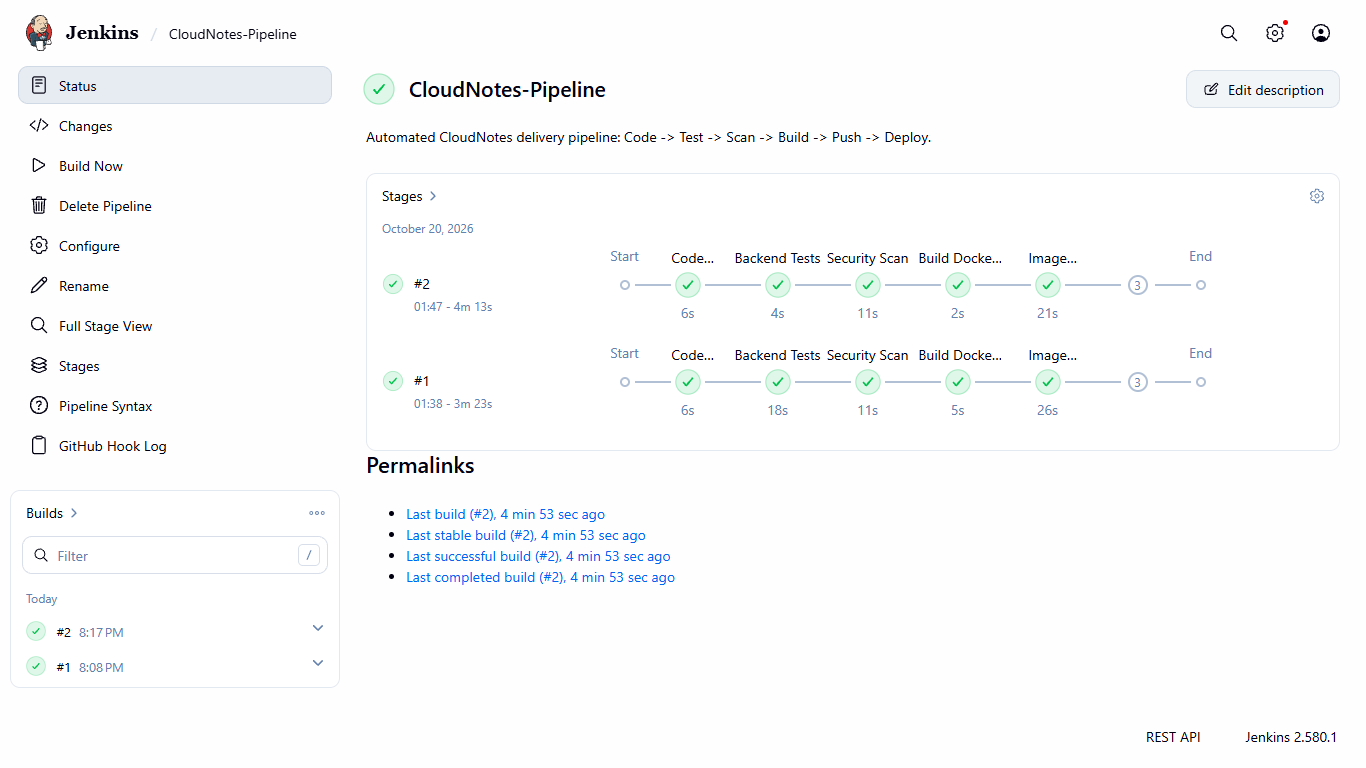
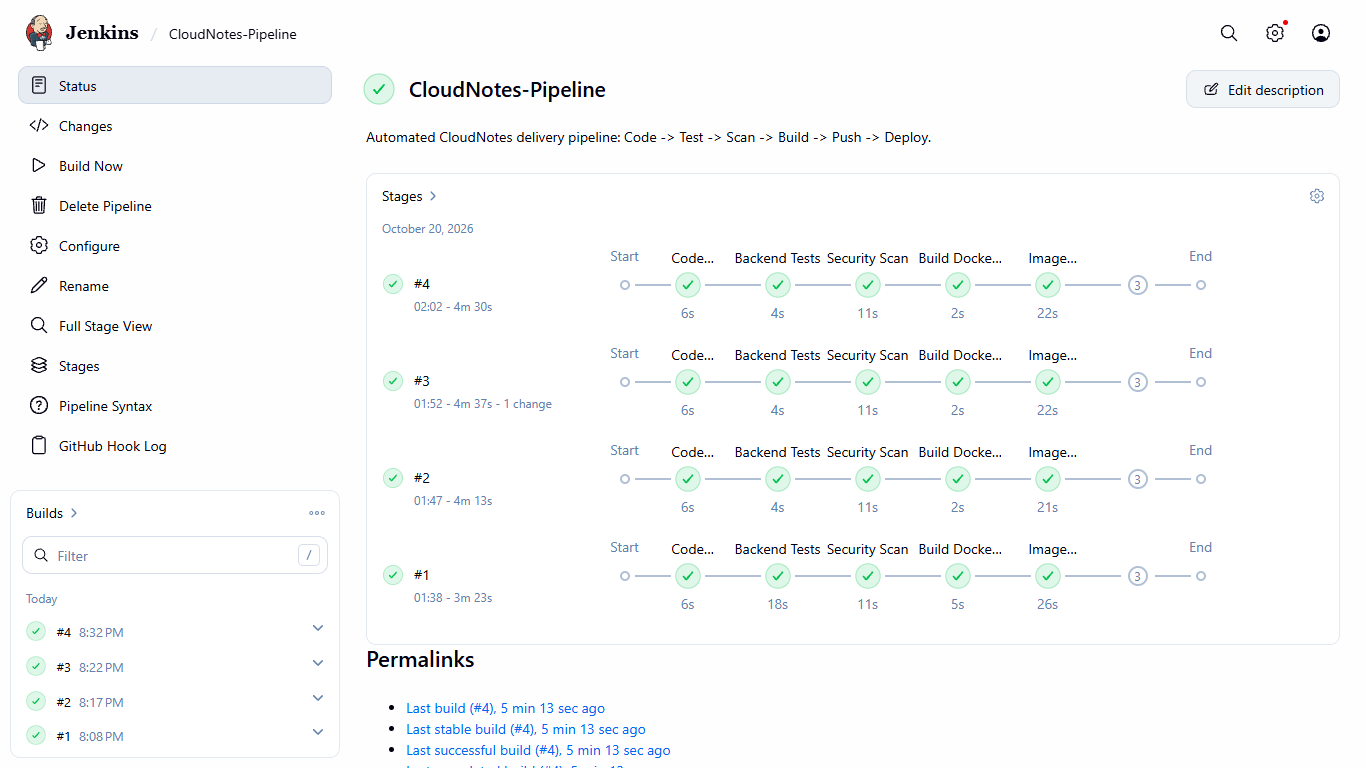
feat(aws): enforce dynamic AWS IP targeting in E2E suites and update live Mumbai evidence with Build #4

diff --git a/tests/e2e/comprehensive_browser_check.js b/tests/e2e/comprehensive_browser_check.js
@@ -2,14 +2,32 @@ const puppeteer = require('puppeteer');
 const path = require('path');
 const fs = require('fs');
 
-const APP_URL = (process.env.CLOUDNOTES_URL || 'http://127.0.0.1:8081').trim().replace(/\/+$/, '');
-const PROM_URL = (process.env.PROMETHEUS_URL || 'http://127.0.0.1:9091').trim().replace(/\/+$/, '');
-const GRAFANA_URL = (process.env.GRAFANA_URL || 'http://127.0.0.1:3001').trim().replace(/\/+$/, '');
-const JENKINS_URL = (process.env.JENKINS_URL || 'http://127.0.0.1:8080').trim().replace(/\/+$/, '');
+let appIp = '3.108.191.94';
+let jenkinsIp = '3.6.90.59';
+
+const tfstatePath = path.join(__dirname, '..', '..', 'terraform', 'terraform.tfstate');
+if (fs.existsSync(tfstatePath)) {
+  try {
+    const tf = JSON.parse(fs.readFileSync(tfstatePath, 'utf8'));
+    if (tf.outputs && tf.outputs.app_public_ip && tf.outputs.app_public_ip.value) {
+      appIp = tf.outputs.app_public_ip.value;
+    }
+    if (tf.outputs && tf.outputs.jenkins_public_ip && tf.outputs.jenkins_public_ip.value) {
+      jenkinsIp = tf.outputs.jenkins_public_ip.value;
+    }
+  } catch (e) {
+    console.warn(`[E2E] Could not read terraform.tfstate: ${e.message}`);
+  }
+}
+
+const APP_URL = (process.env.CLOUDNOTES_URL || `http://${appIp}`).trim().replace(/\/+$/, '');
+const PROM_URL = (process.env.PROMETHEUS_URL || `http://${appIp}:9091`).trim().replace(/\/+$/, '');
+const GRAFANA_URL = (process.env.GRAFANA_URL || `http://${appIp}:3001`).trim().replace(/\/+$/, '');
+const JENKINS_URL = (process.env.JENKINS_URL || `http://${jenkinsIp}:8080`).trim().replace(/\/+$/, '');
 const JENKINS_USER = (process.env.JENKINS_USER || 'admin').trim();
 const JENKINS_PASSWORD = (process.env.JENKINS_PASSWORD || 'CHANGE_ME').trim();
 
-const ARTIFACT_DIR = process.env.ARTIFACT_DIR || 'C:\\Users\\savin\\.gemini\\antigravity\\brain\\58d94cea-2cf3-4818-a090-2835c6bd8fda';
+const ARTIFACT_DIR = process.env.ARTIFACT_DIR || 'C:\\Users\\savin\\.gemini\\antigravity\\brain\\614c16a7-8f71-4cbb-bcf7-79712286a07b';
 const SCREENSHOT_DIR = path.join(__dirname, '..', '..', 'screenshots');
 if (!fs.existsSync(SCREENSHOT_DIR)) {
   fs.mkdirSync(SCREENSHOT_DIR, { recursive: true });

diff --git a/scripts/capture_monitoring.py b/scripts/capture_monitoring.py
@@ -6,14 +6,26 @@ ROOT = Path(__file__).resolve().parents[1]
 SCREENSHOTS = ROOT / "screenshots"
 SCREENSHOTS.mkdir(exist_ok=True)
 
+app_ip = "3.108.191.94"
+tfstate_file = ROOT / "terraform" / "terraform.tfstate"
+if tfstate_file.exists():
+    try:
+        import json
+        with open(tfstate_file, "r", encoding="utf-8") as f:
+            tf = json.load(f)
+            if "outputs" in tf and "app_public_ip" in tf["outputs"]:
+                app_ip = tf["outputs"]["app_public_ip"]["value"]
+    except Exception:
+        pass
+
 with sync_playwright() as p:
     browser = p.chromium.launch(headless=True)
     context = browser.new_context(viewport={'width': 1920, 'height': 1080})
     page = context.new_page()
 
     # 1. Grafana Login & Dashboard
-    print('Navigating to Grafana login...')
-    page.goto('http://127.0.0.1:3001/login')
+    print(f'Navigating to Grafana login at http://{app_ip}:3001/login...')
+    page.goto(f'http://{app_ip}:3001/login')
     page.wait_for_selector('input[name="user"]')
     page.fill('input[name="user"]', 'admin')
     page.fill('input[name="password"]', 'CHANGE_ME')
@@ -21,7 +33,7 @@ with sync_playwright() as p:
     time.sleep(3)
 
     print('Navigating to CloudNotes Production Dashboard...')
-    page.goto('http://127.0.0.1:3001/d/cloudnotes-prod/cloudnotes-production-dashboard?orgId=1&refresh=5s&from=now-1h&to=now')
+    page.goto(f'http://{app_ip}:3001/d/cloudnotes-prod/cloudnotes-production-dashboard?orgId=1&refresh=5s&from=now-1h&to=now')
     time.sleep(6)
     
     # Hide sidebar or collapse menus if open for clean capture
@@ -30,14 +42,14 @@ with sync_playwright() as p:
 
     # 2. Prometheus Alerts
     print('Navigating to Prometheus Alerts...')
-    page.goto('http://127.0.0.1:9091/alerts')
+    page.goto(f'http://{app_ip}:9091/alerts')
     time.sleep(3)
     page.screenshot(path=str(SCREENSHOTS / 'screenshot_prometheus_alerts.png'))
     print('Saved screenshot_prometheus_alerts.png')
 
     # 3. Prometheus Targets
     print('Navigating to Prometheus Targets...')
-    page.goto('http://127.0.0.1:9091/targets')
+    page.goto(f'http://{app_ip}:9091/targets')
     time.sleep(3)
     page.screenshot(path=str(SCREENSHOTS / 'screenshot_prometheus_targets.png'))
     print('Saved screenshot_prometheus_targets.png')

diff --git a/scripts/browser_e2e_automation.py b/scripts/browser_e2e_automation.py
@@ -7,15 +7,31 @@ from playwright.sync_api import sync_playwright
 ROOT = Path(__file__).resolve().parents[1]
 SCREENSHOTS = ROOT / "screenshots"
 SCREENSHOTS.mkdir(exist_ok=True)
-ARTIFACT_DIR = Path(os.getenv("ARTIFACT_DIR", r"C:\Users\savin\.gemini\antigravity\brain\58d94cea-2cf3-4818-a090-2835c6bd8fda"))
+ARTIFACT_DIR = Path(os.getenv("ARTIFACT_DIR", r"C:\Users\savin\.gemini\antigravity\brain\614c16a7-8f71-4cbb-bcf7-79712286a07b"))
 
-APP_URL = os.getenv("CLOUDNOTES_URL", "http://127.0.0.1:8081").rstrip('/')
-PROM_URL = os.getenv("PROMETHEUS_URL", "http://127.0.0.1:9091").rstrip('/')
-GRAFANA_URL = os.getenv("GRAFANA_URL", "http://127.0.0.1:3001").rstrip('/')
+app_ip = "3.108.191.94"
+jenkins_ip = "3.6.90.59"
+tfstate_file = ROOT / "terraform" / "terraform.tfstate"
+if tfstate_file.exists():
+    try:
+        import json
+        with open(tfstate_file, "r", encoding="utf-8") as f:
+            tf = json.load(f)
+            if "outputs" in tf:
+                if "app_public_ip" in tf["outputs"]:
+                    app_ip = tf["outputs"]["app_public_ip"]["value"]
+                if "jenkins_public_ip" in tf["outputs"]:
+                    jenkins_ip = tf["outputs"]["jenkins_public_ip"]["value"]
+    except Exception:
+        pass
+
+APP_URL = os.getenv("CLOUDNOTES_URL", f"http://{app_ip}").rstrip('/')
+PROM_URL = os.getenv("PROMETHEUS_URL", f"http://{app_ip}:9091").rstrip('/')
+GRAFANA_URL = os.getenv("GRAFANA_URL", f"http://{app_ip}:3001").rstrip('/')
 GRAFANA_PASSWORD = os.getenv("GF_SECURITY_ADMIN_PASSWORD", "CHANGE_ME")
-JENKINS_URL = os.getenv("JENKINS_URL", "http://127.0.0.1:8080").rstrip('/')
+JENKINS_URL = os.getenv("JENKINS_URL", f"http://{jenkins_ip}:8080").rstrip('/')
 JENKINS_USER = os.getenv("JENKINS_USER", "admin")
-JENKINS_PASSWORD = os.getenv("JENKINS_PASSWORD", "admin")
+JENKINS_PASSWORD = os.getenv("JENKINS_PASSWORD", "CHANGE_ME")
 
 def save_and_copy(source_path, filename):
     if ARTIFACT_DIR.exists():

diff --git a/scripts/trigger_jenkins_build.py b/scripts/trigger_jenkins_build.py
@@ -1,0 +1,37 @@
+import requests
+import json
+import time
+
+JENKINS_URL = "http://3.6.90.59:8080"
+JOB_NAME = "CloudNotes-Pipeline"
+USER = "admin"
+PASSWORD = "CHANGE_ME"
+
+def trigger_build():
+    session = requests.Session()
+    session.auth = (USER, PASSWORD)
+    
+    # 1. Fetch CSRF Crumb
+    crumb_resp = session.get(f"{JENKINS_URL}/crumbIssuer/api/json")
+    if crumb_resp.status_code == 200:
+        crumb_data = crumb_resp.json()
+        crumb_field = crumb_data["crumbRequestField"]
+        crumb = crumb_data["crumb"]
+        headers = {crumb_field: crumb}
+        print(f"Acquired CSRF Crumb: {crumb[:10]}...")
+    else:
+        headers = {}
+        print(f"Crumb not required or returned status {crumb_resp.status_code}")
+        
+    # 2. Trigger Build
+    build_resp = session.post(f"{JENKINS_URL}/job/{JOB_NAME}/build", headers=headers)
+    print(f"Trigger build response status: {build_resp.status_code}")
+    if build_resp.status_code in [200, 201]:
+        print("Build successfully triggered!")
+        return True
+    else:
+        print(f"Failed to trigger build: {build_resp.text}")
+        return False
+
+if __name__ == '__main__':
+    trigger_build()

diff --git a/scripts/capture_jenkins_dashboard.py b/scripts/capture_jenkins_dashboard.py
@@ -4,13 +4,28 @@ import shutil
 import requests
 from playwright.sync_api import sync_playwright
 
-JENKINS_URL = "http://localhost:8080"
+from pathlib import Path
+import json
+
+ROOT = Path(__file__).resolve().parents[1]
+jenkins_ip = "3.6.90.59"
+tfstate_file = ROOT / "terraform" / "terraform.tfstate"
+if tfstate_file.exists():
+    try:
+        with open(tfstate_file, "r", encoding="utf-8") as f:
+            tf = json.load(f)
+            if "outputs" in tf and "jenkins_public_ip" in tf["outputs"]:
+                jenkins_ip = tf["outputs"]["jenkins_public_ip"]["value"]
+    except Exception:
+        pass
+
+JENKINS_URL = os.getenv("JENKINS_URL", f"http://{jenkins_ip}:8080")
 LOGIN_URL = f"{JENKINS_URL}/login"
 USERNAME = "admin"
 PASSWORD = "CHANGE_ME"
 
 SCREENSHOT_DEST = os.path.abspath("screenshots/screenshot_jenkins.png")
-BRAIN_DEST = r"C:\Users\savin\.gemini\antigravity\brain\ea0170fa-9f34-4ce4-b9b9-972a62b9f5a1\screenshot_jenkins.png"
+BRAIN_DEST = r"C:\Users\savin\.gemini\antigravity\brain\614c16a7-8f71-4cbb-bcf7-79712286a07b\screenshot_jenkins.png"
 
 def wait_for_jenkins(timeout_sec=120):
     print(f"Waiting for Jenkins at {LOGIN_URL}...")

diff --git a/scripts/test_traffic_scaling.py b/scripts/test_traffic_scaling.py
@@ -1,0 +1,36 @@
+import urllib.request
+import time
+import concurrent.futures
+
+TARGET_URL = "http://3.108.191.94/api/notes"
+
+def fetch(i):
+    try:
+        req = urllib.request.Request(TARGET_URL, headers={"User-Agent": "TrafficTest/1.0"})
+        with urllib.request.urlopen(req, timeout=5) as response:
+            return response.status
+    except Exception as e:
+        return str(e)
+
+def main():
+    print(f"Sending synthetic traffic to {TARGET_URL}...")
+    start_time = time.time()
+    total_reqs = 300
+    workers = 15
+    success = 0
+    errors = 0
+
+    with concurrent.futures.ThreadPoolExecutor(max_workers=workers) as executor:
+        futures = [executor.submit(fetch, i) for i in range(total_reqs)]
+        for f in concurrent.futures.as_completed(futures):
+            res = f.result()
+            if res == 200:
+                success += 1
+            else:
+                errors += 1
+
+    elapsed = time.time() - start_time
+    print(f"Completed {total_reqs} requests in {elapsed:.2f}s ({total_reqs/elapsed:.1f} req/s). Success: {success}, Errors: {errors}")
+
+if __name__ == '__main__':
+    main()
